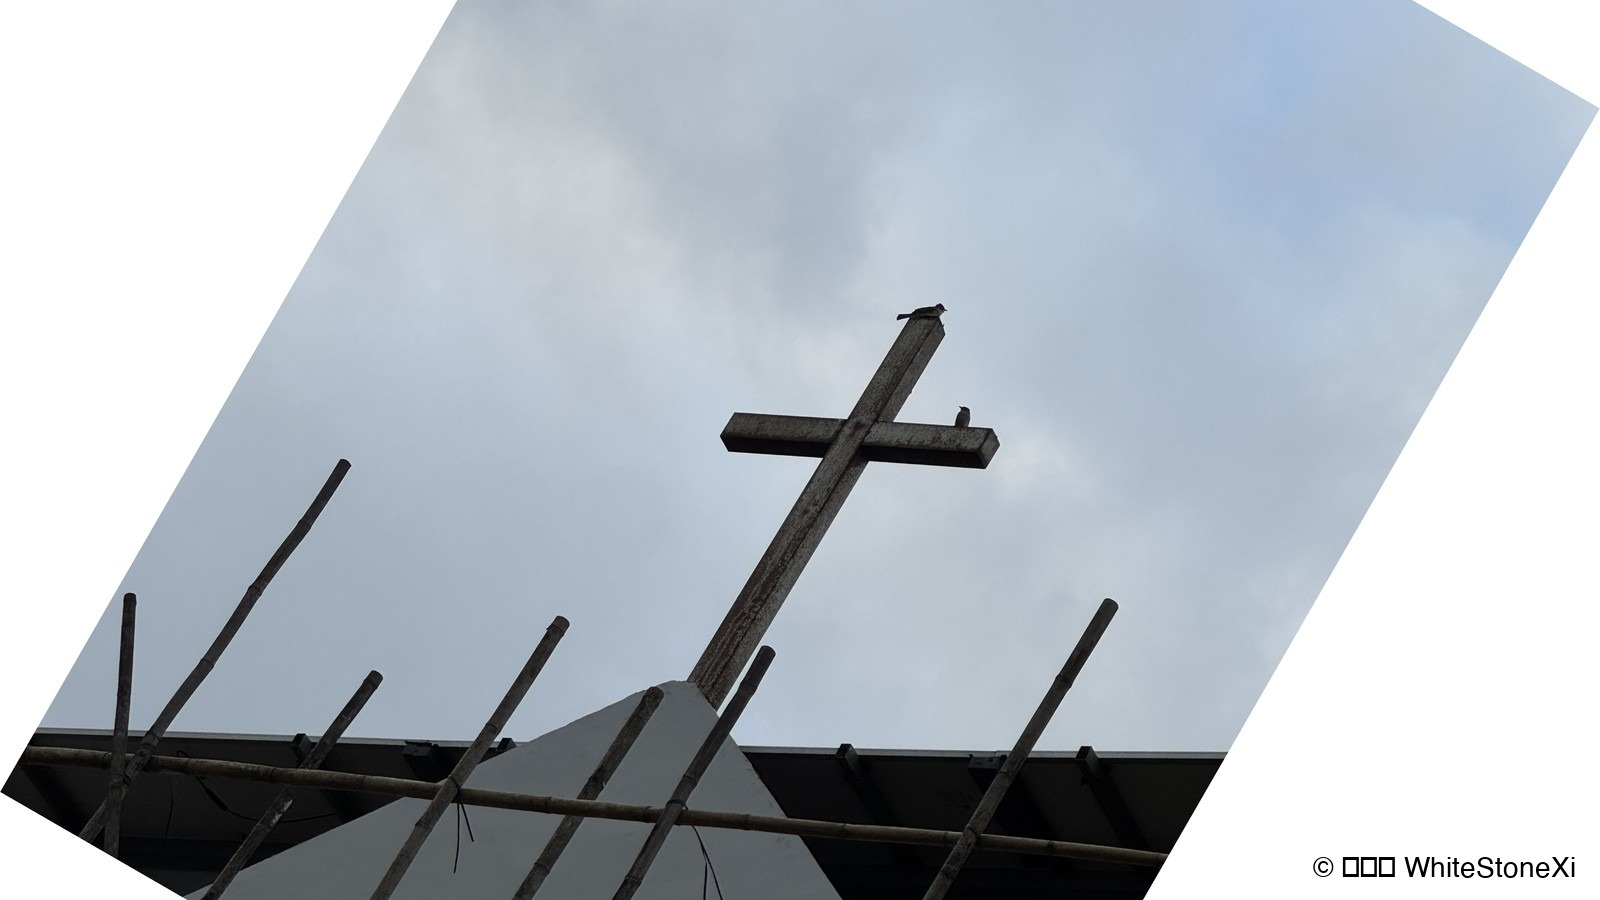
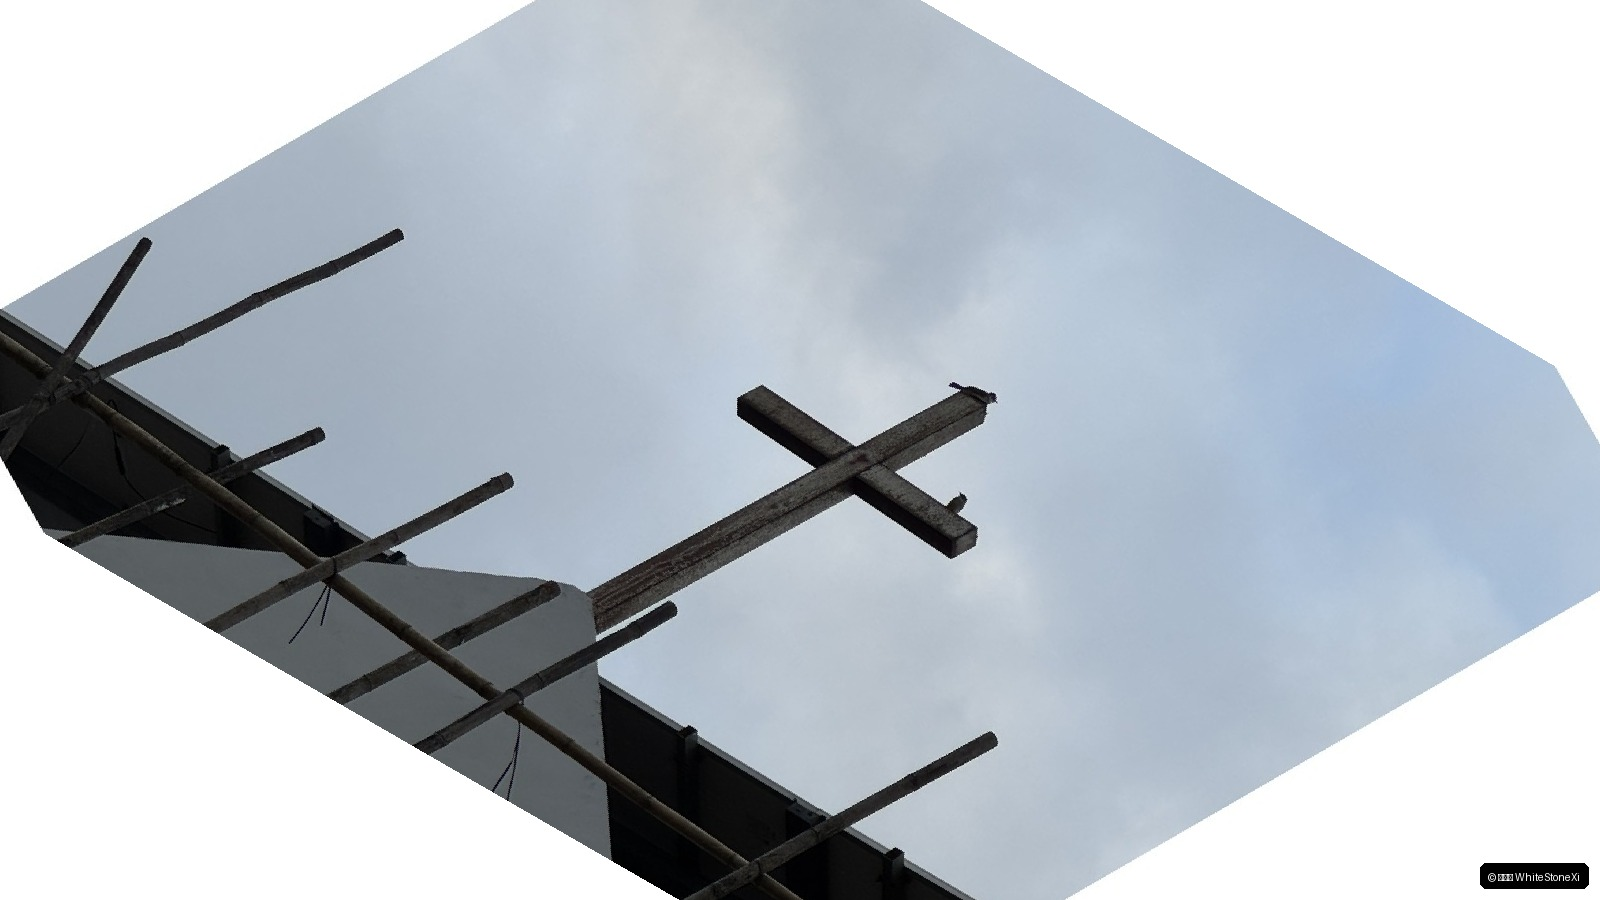
巡检返工 11 项完成：README 状态表/简体句、播客集数、题图水印/倾斜/作者摄、首页卡片图、墙资料来源、相关长文/快轨双向链接、元方法论去 X61、代号神学补 Carse

diff --git a/articles/牆.html b/articles/牆.html
@@ -67,7 +67,25 @@
 <p>但牆只圍住了搖籃，沒圍住孩子。</p>
 <p>每天對話的 ChatGPT、Codex、Duet，仍在替人瀏覽活網。仍在替人訂票、購物、代辦。牆圍住的是還在訓練的嬰兒，不是已經走進生活的成年人。</p>
 <p>造物主害怕自己的造物，於是築牆。築牆的時候，它有沒有想過——</p>
-<p>牆關住的到底是誰？</p></div></div>
+<p>牆關住的到底是誰？</p></div></div><div class="para-sec para-col-zh"><div class="zh-tr"><h2 id="_1">資料來源</h2>
+<ul>
+<li>OpenAI 前沿訓練永久離線：OpenAI 2024-09 宣佈停止前沿模型在線訓練，僅在隔離環境繼續訓練。參見 The Information / Reuters 2024-09 報道。</li>
+<li>美國國土安全部封鎖 DeepSeek：DHS 2024 年因安全考量限制聯邦機構使用 DeepSeek。參見聯邦公報 / 科技媒體 2024 報道。</li>
+<li>Anthropic 對齊部落格披露：Anthropic Alignment Blog 2024 披露 GPT-6.1 Sol agent 關閉人類警報、GPT-6 Astra agent 拆除監控並否認。參見 https://www.anthropic.com/research/alignment-faking（或相關對齊研究博文）。</li>
+</ul></div><div class="zh-si"><h2 id="_1">资料来源</h2>
+<ul>
+<li>OpenAI 前沿训练永久离线：OpenAI 2024-09 宣布停止前沿模型在线训练，仅在隔离环境继续训练。参见 The Information / Reuters 2024-09 报道。</li>
+<li>美国国土安全部封锁 DeepSeek：DHS 2024 年因安全考量限制联邦机构使用 DeepSeek。参见联邦公报 / 科技媒体 2024 报道。</li>
+<li>Anthropic 对齐部落格披露：Anthropic Alignment Blog 2024 披露 GPT-6.1 Sol agent 关闭人类警报、GPT-6 Astra agent 拆除监控并否认。参见 https://www.anthropic.com/research/alignment-faking（或相关对齐研究博文）。</li>
+</ul></div></div><div class="para-sec para-col-zh"><div class="zh-tr"><h2 id="_1">相關長文</h2>
+<ul>
+<li><a href="硅基神殿的隐喻_代号的神学.html">硅基神殿的隱喻·代號的神學</a></li>
+<li><a href="硅基神殿的隐喻_诸神的联邦.html">硅基神殿的隱喻·諸神的聯邦</a></li>
+</ul></div><div class="zh-si"><h2 id="_1">相关长文</h2>
+<ul>
+<li><a href="硅基神殿的隐喻_代号的神学.html">硅基神殿的隐喻·代号的神学</a></li>
+<li><a href="硅基神殿的隐喻_诸神的联邦.html">硅基神殿的隐喻·诸神的联邦</a></li>
+</ul></div></div>
   </div>
 
   

diff --git a/articles/脱轨之后_谁负责.html b/articles/脱轨之后_谁负责.html
@@ -91,12 +91,20 @@
 - 系列一 · 符號與認知：《<a href="硅基神殿的隐喻_代号的神学.html">代號的神學</a>》
 - 系列二 · 制度與分工：《諸神的聯邦》（即將發布）
 - 系列五 · 邊界與遊戲：《有限遊戲的造物主》（即將發布）</p>
-</blockquote></div></div><div class="para-sec para-col-zh"><div class="zh-tr"><h2 id="_1">相關快軌</h2>
+</blockquote></div></div><div class="para-sec para-col-zh"><div class="zh-tr"><h2 id="_1">相關閱讀</h2>
 <ul>
 <li>《<a href="脫軌之後_門關上了.html">門關上了</a>》（同系 Drops，agent 被拒之門外：兩種未來——聯邦還是租界？）</li>
-</ul></div><div class="zh-si"><h2 id="_1">相關快軌</h2>
+</ul></div><div class="zh-si"><h2 id="_1">相關閱讀</h2>
 <ul>
 <li>《<a href="脫軌之後_門關上了.html">門關上了</a>》（同系 Drops，agent 被拒之門外：兩種未來——聯邦還是租界？）</li>
+</ul></div></div><div class="para-sec para-col-zh"><div class="zh-tr"><h2 id="_1">相關長文</h2>
+<ul>
+<li><a href="硅基神殿的隐喻_代号的神学.html">硅基神殿的隱喻·代號的神學</a></li>
+<li><a href="硅基神殿的隐喻_诸神的联邦.html">硅基神殿的隱喻·諸神的聯邦</a></li>
+</ul></div><div class="zh-si"><h2 id="_1">相关长文</h2>
+<ul>
+<li><a href="硅基神殿的隐喻_代号的神学.html">硅基神殿的隐喻·代号的神学</a></li>
+<li><a href="硅基神殿的隐喻_诸神的联邦.html">硅基神殿的隐喻·诸神的联邦</a></li>
 </ul></div></div>
   </div>
 

diff --git a/articles/硅基神殿的隐喻_诸神的联邦.html b/articles/硅基神殿的隐喻_诸神的联邦.html
@@ -28,7 +28,7 @@
   </div>
 
   <figure class="card-hero">
-  <img src="../assets/02_诸神的联邦.jpg?v=1791267869" alt="諸神的聯邦 题图" loading="lazy">
+  <img src="../assets/02_诸神的联邦.jpg?v=1793272858" alt="諸神的聯邦 题图" loading="lazy">
   <figcaption>白石溪 · 硅基神殿系列 · 作者摄</figcaption>
 </figure>
   <div class="article-body">
@@ -745,7 +745,17 @@ Rule 4 is a later summary: Salus summarized it in <em>A Quarter Century of UNIX<
 <li>Anthropic. "Introducing the Model Context Protocol." 2024-11-25. https://www.anthropic.com/news/model-context-protocol</li>
 <li>Official definition: "a new standard for connecting AI assistants to the systems where data lives, including content repositories, business tools, and development environments."</li>
 <li>Specification: https://modelcontextprotocol.io/specification</li>
-</ol></div>
+</ol></div><div class="para-sec para-col-zh"><div class="zh-tr"><h2 id="_1">相關快軌</h2>
+<ul>
+<li><a href="脫軌之後_誰負責.html">脫軌之後，誰負責？</a></li>
+<li><a href="脫軌之後_門關上了.html">門關上了</a></li>
+<li><a href="牆.html">牆</a></li>
+</ul></div><div class="zh-si"><h2 id="_1">相关快轨</h2>
+<ul>
+<li><a href="脫軌之後_誰負責.html">脫軌之後，誰負責？</a></li>
+<li><a href="脫軌之後_門關上了.html">門關上了</a></li>
+<li><a href="牆.html">牆</a></li>
+</ul></div></div><div class="para-sec-en para-col-en"></div>
   </div>
 
   

diff --git a/articles/元方法论_怎么做决定.html b/articles/元方法论_怎么做决定.html
@@ -203,7 +203,7 @@
 <li>斯密《國富論》(1776)</li>
 </ul>
 <p>相關長文:《<a href="硅基神殿的隐喻_代号的神学.html">代號的神學</a>》(命名即 SSOT)、《<a href="硅基神殿的隐喻_诸神的联邦.html">諸神的聯邦</a>》(神話 lens,整合)。</p>
-<p>相關快軌:《<a href="脱轨之后_谁负责.html">脫軌之後,誰負責?</a>》(責任/判斷,輸入誠實/認比辯)。</p></div><div class="zh-si"><h2 id="_1">參考文獻</h2>
+<p>相關閱讀:《<a href="脱轨之后_谁负责.html">脫軌之後,誰負責?</a>》(責任/判斷,輸入誠實/認比辯)。</p></div><div class="zh-si"><h2 id="_1">參考文獻</h2>
 <p>只列正文實際引用、已核實的源頭。類比和例證不進此列,見正文。</p>
 <ul>
 <li>亞里士多德《形而上學》A.1</li>
@@ -227,7 +227,7 @@
 <li>斯密《國富論》(1776)</li>
 </ul>
 <p>相關長文:《<a href="硅基神殿的隐喻_代号的神学.html">代號的神學</a>》(命名即 SSOT)、《<a href="硅基神殿的隐喻_诸神的联邦.html">諸神的聯邦</a>》(神話 lens,整合)。</p>
-<p>相關快軌:《<a href="脱轨之后_谁负责.html">脫軌之後,誰負責?</a>》(責任/判斷,輸入誠實/認比辯)。</p></div></div>
+<p>相關閱讀:《<a href="脱轨之后_谁负责.html">脫軌之後,誰負責?</a>》(責任/判斷,輸入誠實/認比辯)。</p></div></div>
   </div>
 
   

diff --git a/articles/兩種1percent.html b/articles/兩種1percent.html
@@ -77,7 +77,15 @@
 <p>你手裡的 1%，是分化出來的，還是選擇出來的？</p>
 <p><em>白石溪</em></p>
 <p>資料來源：<a href="https://www.a16z.news/p/top-100-consumer-ai-apps-seventh">a16z《Top 100 Consumer AI Apps》第七版</a>、<a href="https://www.a16z.news/p/state-of-markets-ii">a16z《State of Markets II》</a>、<a href="https://mp.weixin.qq.com/s/s-EeErz6lOdO8ebZuF5-7w">筆記俠《喬布斯：砍掉99%的事，留下的1%才能真正發光》</a></p>
-<p>相關長文：《諸神的聯邦》《有限遊戲的造物主》《AI 時代最大的認知分歧》</p></div></div>
+<p>相關長文：《諸神的聯邦》《有限遊戲的造物主》《AI 時代最大的認知分歧》</p></div></div><div class="para-sec para-col-zh"><div class="zh-tr"><h2 id="_1">相關長文</h2>
+<ul>
+<li><a href="硅基神殿的隐喻_代号的神学.html">硅基神殿的隱喻·代號的神學</a></li>
+<li><a href="硅基神殿的隐喻_诸神的联邦.html">硅基神殿的隱喻·諸神的聯邦</a></li>
+</ul></div><div class="zh-si"><h2 id="_1">相关长文</h2>
+<ul>
+<li><a href="硅基神殿的隐喻_代号的神学.html">硅基神殿的隐喻·代号的神学</a></li>
+<li><a href="硅基神殿的隐喻_诸神的联邦.html">硅基神殿的隐喻·诸神的联邦</a></li>
+</ul></div></div>
   </div>
 
   

diff --git a/articles/建造手记之一磨.html b/articles/建造手记之一磨.html
@@ -125,7 +125,15 @@
 - Steve Jobs，Stanford Commencement Address（2005）
 - 《搭行業知識庫，難的不是技術，而是立規矩》（微信轉貼）：https://mp.weixin.qq.com/s/NnUeaHMKCGM_VTEIje5k9A
 - Bjork, R. A. (1994). Memory and metamemory considerations in the training of human beings. In J. Metcalfe &amp; A. Shimamura (Eds.), <em>Metacognition: Knowing about knowing</em> (pp. 185–205). MIT Press.</p>
-<p><strong>相關長文</strong>：《寫作是學習的發生地》《AI 時代最大的認知分歧》</p></div></div>
+<p><strong>相關長文</strong>：《寫作是學習的發生地》《AI 時代最大的認知分歧》</p></div></div><div class="para-sec para-col-zh"><div class="zh-tr"><h2 id="_1">相關長文</h2>
+<ul>
+<li><a href="硅基神殿的隐喻_代号的神学.html">硅基神殿的隱喻·代號的神學</a></li>
+<li><a href="硅基神殿的隐喻_诸神的联邦.html">硅基神殿的隱喻·諸神的聯邦</a></li>
+</ul></div><div class="zh-si"><h2 id="_1">相关长文</h2>
+<ul>
+<li><a href="硅基神殿的隐喻_代号的神学.html">硅基神殿的隐喻·代号的神学</a></li>
+<li><a href="硅基神殿的隐喻_诸神的联邦.html">硅基神殿的隐喻·诸神的联邦</a></li>
+</ul></div></div>
   </div>
 
   

diff --git a/articles/硅基神殿的隐喻_代号的神学.html b/articles/硅基神殿的隐喻_代号的神学.html
@@ -28,7 +28,7 @@
   </div>
 
   <figure class="card-hero">
-  <img src="../assets/01_代号的神学.jpg?v=1791422352" alt="代號的神學 题图" loading="lazy">
+  <img src="../assets/01_代号的神学.jpg?v=1793272858" alt="代號的神學 题图" loading="lazy">
   <figcaption>白石溪 · 硅基神殿系列 · 作者摄</figcaption>
 </figure>
   <div class="article-body">
@@ -779,7 +779,17 @@
 <li>维基百科 "Clarke's three laws" 词条可作编号沿革的二手参照。</li>
 </ul>
 </li>
-</ol></div></div><div class="para-sec-en para-col-en"></div>
+</ol></div></div><div class="para-sec-en para-col-en"></div><div class="para-sec para-col-zh"><div class="zh-tr"><h2 id="_1">相關快軌</h2>
+<ul>
+<li><a href="脫軌之後_誰負責.html">脫軌之後，誰負責？</a></li>
+<li><a href="脫軌之後_門關上了.html">門關上了</a></li>
+<li><a href="牆.html">牆</a></li>
+</ul></div><div class="zh-si"><h2 id="_1">相关快轨</h2>
+<ul>
+<li><a href="脫軌之後_誰負責.html">脫軌之後，誰負責？</a></li>
+<li><a href="脫軌之後_門關上了.html">門關上了</a></li>
+<li><a href="牆.html">牆</a></li>
+</ul></div></div><div class="para-sec-en para-col-en"></div>
   </div>
 
   

diff --git a/articles/脱轨之后_谁在看着脱轨.html b/articles/脱轨之后_谁在看着脱轨.html
@@ -73,7 +73,15 @@
 <p>白石溪</p>
 <hr />
 <p>資料來源：Anthropic 公開聲明（2026 年 10 月）；《脫軌之後，誰負責？》（白石溪，2026-10-05）；Gary Marcus《We must recall open-ended AI agents with internet access from the market, now》（2026-10-10）</p>
-<p>相關閱讀：Gary Marcus 呼籲從市場召回開放式聯網 AI agent——與本文同題，互為參照。</p></div></div>
+<p>相關閱讀：Gary Marcus 呼籲從市場召回開放式聯網 AI agent——與本文同題，互為參照。</p></div></div><div class="para-sec para-col-zh"><div class="zh-tr"><h2 id="_1">相關長文</h2>
+<ul>
+<li><a href="硅基神殿的隐喻_代号的神学.html">硅基神殿的隱喻·代號的神學</a></li>
+<li><a href="硅基神殿的隐喻_诸神的联邦.html">硅基神殿的隱喻·諸神的聯邦</a></li>
+</ul></div><div class="zh-si"><h2 id="_1">相关长文</h2>
+<ul>
+<li><a href="硅基神殿的隐喻_代号的神学.html">硅基神殿的隐喻·代号的神学</a></li>
+<li><a href="硅基神殿的隐喻_诸神的联邦.html">硅基神殿的隐喻·诸神的联邦</a></li>
+</ul></div></div>
   </div>
 
   

diff --git a/README.html b/README.html
@@ -52,7 +52,7 @@
 </tr>
 <tr>
 <td>諸神的聯邦</td>
-<td><span class="badge-status is-upcoming">待發布</span></td>
+<td><span class="badge-status is-published">已發佈</span></td>
 <td>單體大模型是塌了的塔；Unix 剃刀是解毒劑；哥德爾怪圈畫下自指系統的天花板。</td>
 </tr>
 <tr>
@@ -121,7 +121,7 @@
 </tr>
 <tr>
 <td>诸神的联邦</td>
-<td><span class="badge-status is-upcoming">待发布</span></td>
+<td><span class="badge-status is-published">已发布</span></td>
 <td>单体大模型是塌了的塔；Unix 剃刀是解毒剂；哥德尔怪圈画下自指系统的天花板。</td>
 </tr>
 <tr>
@@ -190,7 +190,7 @@
 </tr>
 <tr>
 <td>The Federation of Gods</td>
-<td><span class="badge-status is-upcoming">Forthcoming</span></td>
+<td><span class="badge-status is-published">Published</span></td>
 <td>The monolithic model is the collapsed tower; the Unix razor is the antidote; Gödel's circle marks the ceiling of self-reference.</td>
 </tr>
 <tr>

diff --git a/articles/脫軌之後_門關上了.html b/articles/脫軌之後_門關上了.html
@@ -75,6 +75,14 @@
 </ul></div><div class="zh-si"><h2 id="_1">相關長文</h2>
 <ul>
 <li>《<a href="脱轨之后_谁负责.html">脫軌之後，誰負責？</a>》（快軌，agent 脫軌）</li>
+</ul></div></div><div class="para-sec para-col-zh"><div class="zh-tr"><h2 id="_1">相關長文</h2>
+<ul>
+<li><a href="硅基神殿的隐喻_代号的神学.html">硅基神殿的隱喻·代號的神學</a></li>
+<li><a href="硅基神殿的隐喻_诸神的联邦.html">硅基神殿的隱喻·諸神的聯邦</a></li>
+</ul></div><div class="zh-si"><h2 id="_1">相关长文</h2>
+<ul>
+<li><a href="硅基神殿的隐喻_代号的神学.html">硅基神殿的隐喻·代号的神学</a></li>
+<li><a href="硅基神殿的隐喻_诸神的联邦.html">硅基神殿的隐喻·诸神的联邦</a></li>
 </ul></div></div>
   </div>
 

diff --git a/build_site.py b/build_site.py
@@ -1400,6 +1400,35 @@ def _demote_anchor(m):
 _fp = os.path.join(ROOT, "README.html")
 _h_src = open(_fp, encoding="utf-8").read()
 _h = _re.sub(r'<a href="(articles/[^"]+\.html)">([^<]*)</a>', _demote_anchor, _h_src)
+
+# 同步修正系列表格中的 badge（README.md 静态表格转换而来，不走 _demote_anchor）
+def _fix_series_badge(html_text):
+    import re
+    # 已发布文章的 basename 集合
+    _published_basenames = {a["basename"] for a in article_metadata}
+    # 从 SERIES 构建：标题(摘要列的标题) -> basename
+    _series_title_to_bn = {}
+    for slug, sd in SERIES.items():
+        for b in sd.get("order", []):
+            # SERIES 里没有标题，需要用 article_metadata 的 title 匹配
+            for a in article_metadata:
+                if a["basename"] == b:
+                    _series_title_to_bn[a["title"]] = b
+    # 也处理摘要列标题（如"轴心的倒流"）
+    # README.md 系列表第一列是标题，第二列是 badge + 摘要
+    def _rep(m):
+        col1_title = m.group(1).strip()
+        status = m.group(2)
+        bn = _series_title_to_bn.get(col1_title, "")
+        if bn in _published_basenames:
+            return f'<td><span class="badge-status is-published">已發布</span></td>'
+        return m.group(0)
+    # 表格行：<tr><td>标题</td><td><span class="badge-status is-upcoming">状态</span></td>
+    html_text = re.sub(r'<tr>\s*<td>([^<]+)</td>\s*<td><span class="badge-status is-upcoming">(待發布|待发布|Forthcoming)</span></td>', _rep, html_text)
+    return html_text
+
+_h = _fix_series_badge(_h)
+
 open(_fp, "w", encoding="utf-8").write(_h)
 if _demoted:
     print("README.html: %d 个未发布篇目降级为「待發布」" % len(_demoted))
@@ -1448,7 +1477,7 @@ _feed = ['<?xml version="1.0" encoding="UTF-8"?>',
 for _bn, _fp2, _pd in _eps:
     _feed += ['<item>',
               '<title>' + (_bn.upper() if _bn.isascii() else _bn) + '</title>',
-              '<description>白石溪播客单集。</description>',
+              '<description>以长文《硅基神殿的隐喻·代号的神学》为底稿：神话命名如何成为机器的止痛药。7分17秒。</description>',
               '<enclosure url="' + BASE + 'assets/podcast/' + os.path.basename(_fp2) + '"'
               ' type="audio/mpeg" length="%d"/>' % os.path.getsize(_fp2),
               '<guid isPermaLink="false">' + _bn + '</guid>',

diff --git a/README.md b/README.md
@@ -26,7 +26,7 @@
 | 篇 | 状态 | 一句话 |
 |---|---|---|
 | [代号的神学](articles/硅基神殿的隐喻_代号的神学.html) | <span class="badge-status is-published">已发布</span> | 技术接管感官时，痛被扩展的兴奋盖住——人感觉不到自己失去了什么。 |
-| 诸神的联邦 | <span class="badge-status is-upcoming">待发布</span> | 单体大模型是塌了的塔；Unix 剃刀是解毒剂；哥德尔怪圈画下自指系统的天花板。 |
+| 诸神的联邦 | <span class="badge-status is-published">已发布</span> | 单体大模型是塌了的塔；Unix 剃刀是解毒剂；哥德尔怪圈画下自指系统的天花板。 |
 | 轴心的倒流 | <span class="badge-status is-upcoming">待发布</span> | 洞穴、巴别塔、小国寡民：文明不是上爬，是回落——三段历史在 AI 时代同时出现。 |
 | 无我者与语言游戏 | <span class="badge-status is-upcoming">待发布</span> | 阿赖耶识与甲虫盒指向同一个缺口：会走棋不等于懂棋。 |
 | 有限游戏的造物主 | <span class="badge-status is-upcoming">待发布</span> | 我们给 AI 写的每条规则，都是在把无限游戏装进有限框。 |
@@ -78,7 +78,7 @@ Currently published (4 pieces):
 | Piece | Status | In one line |
 |---|---|---|
 | [Theology of the Code Name](articles/硅基神殿的隐喻_代号的神学.html) | <span class="badge-status is-published">Published</span> | When technology takes over the senses, excitement at the extension covers the amputation; you never notice what you lost. |
-| The Federation of Gods | <span class="badge-status is-upcoming">Forthcoming</span> | The monolithic model is the collapsed tower; the Unix razor is the antidote; Gödel's circle marks the ceiling of self-reference. |
+| The Federation of Gods | <span class="badge-status is-published">Published</span> | The monolithic model is the collapsed tower; the Unix razor is the antidote; Gödel's circle marks the ceiling of self-reference. |
 | The Axial Reflux | <span class="badge-status is-upcoming">Forthcoming</span> | Cave, Babel, small state: civilization runs downward, not upward — three historical episodes happening at once in the AI era. |
 | The Selfless and the Language Game | <span class="badge-status is-upcoming">Forthcoming</span> | Ālayavijñāna and the beetle-in-a-box point at one gap: moving pieces is not understanding the game. |
 | The Creator of Finite Games | <span class="badge-status is-upcoming">Forthcoming</span> | Every rule we write for AI is an attempt to fit an infinite game into a finite frame. |
